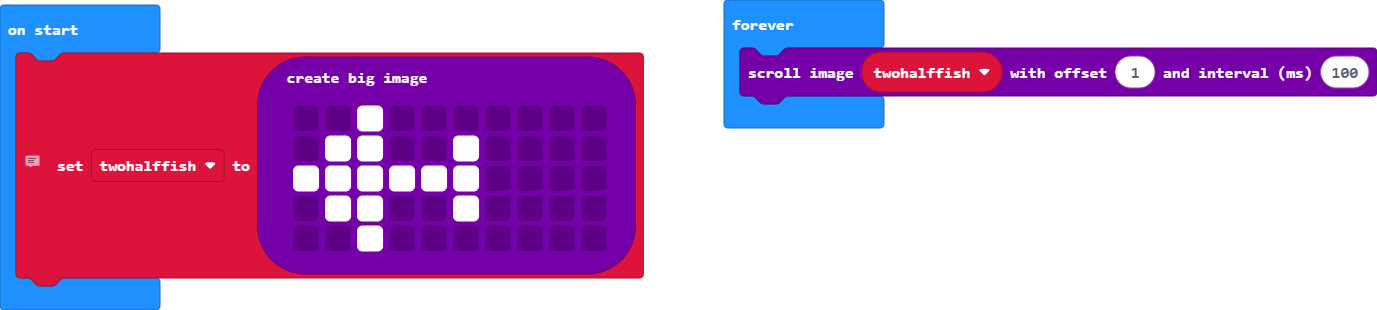
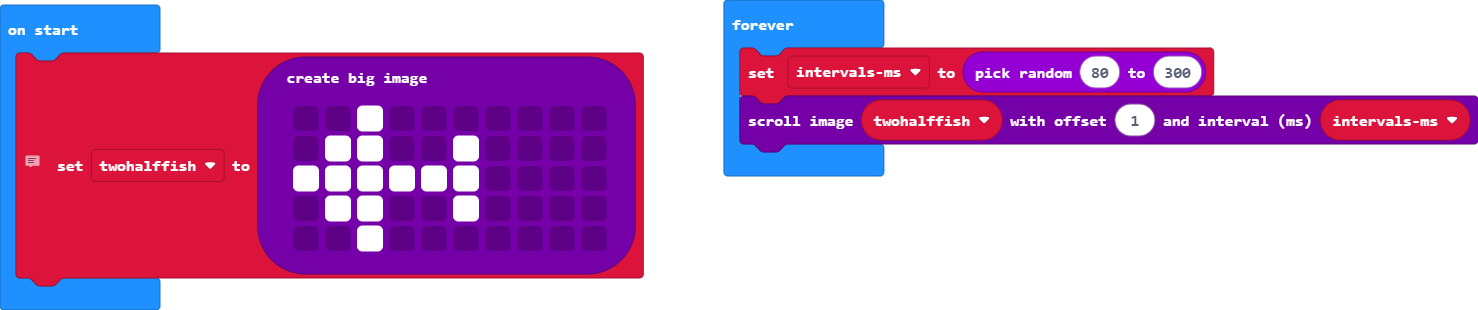
Update main.blocks, main.ts

diff --git a/main.ts b/main.ts
@@ -1,3 +1,4 @@
+let intervalsms = 0
 // JEGYED50-BBC-MICROBIT-STUDY365-BLOCKS-03-03-C
 // Fish animation with create big image and scroll image
 let twohalffish = images.createBigImage(`
@@ -8,5 +9,6 @@ let twohalffish = images.createBigImage(`
     . . # . . . . . . .
     `)
 basic.forever(function () {
-    twohalffish.scrollImage(1, 100)
+    intervalsms = randint(80, 300)
+    twohalffish.scrollImage(1, intervalsms)
 })
